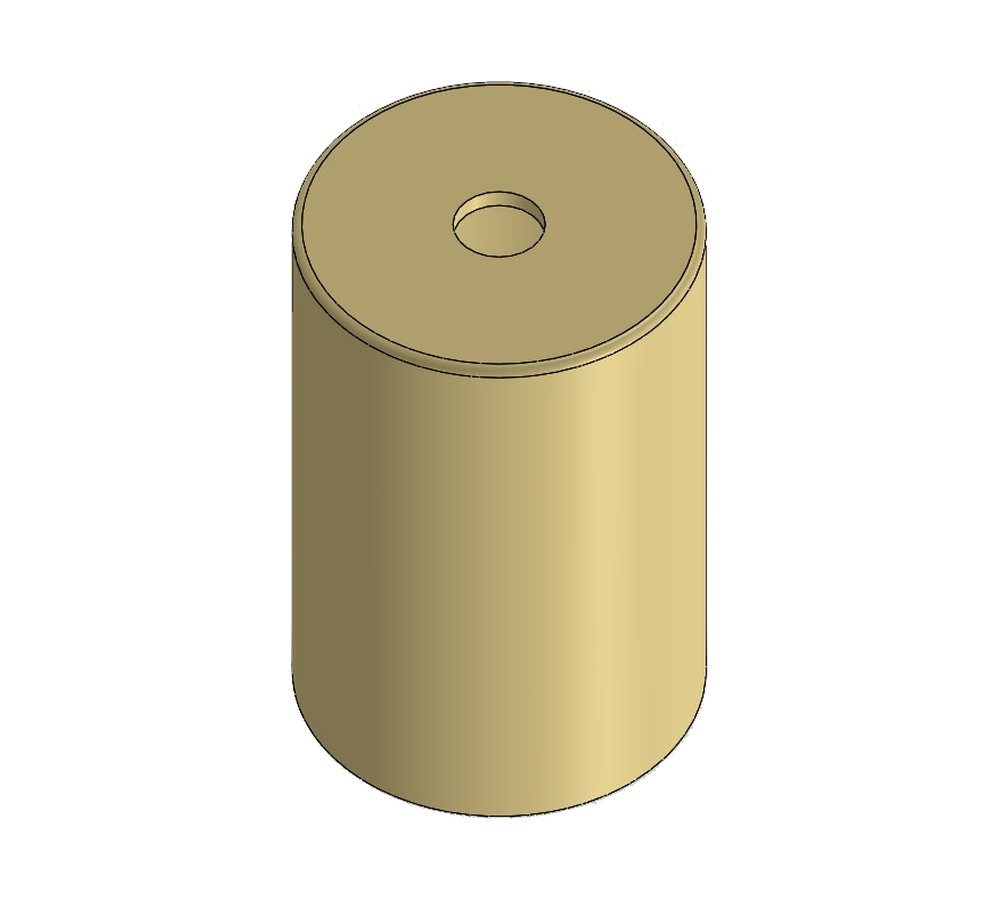
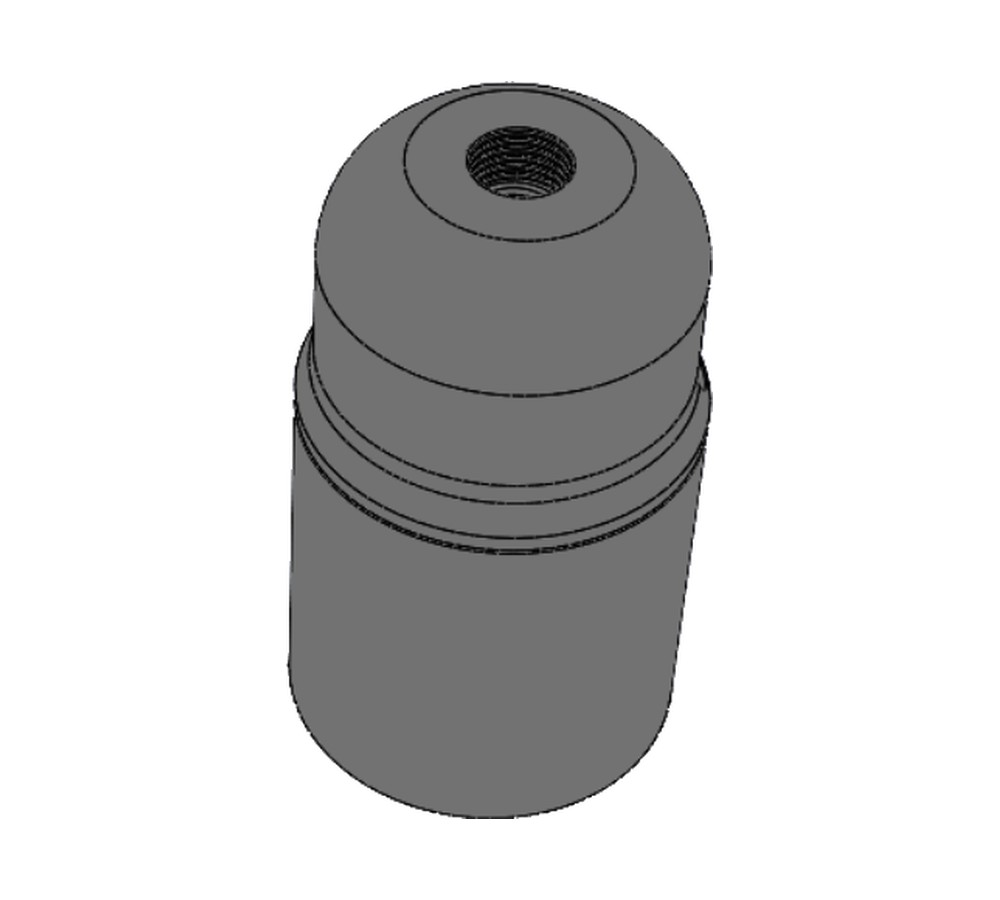
fix: fase 1 and images

diff --git a/cm3d/fase-1.html b/cm3d/fase-1.html
@@ -55,9 +55,11 @@
 
       <section id="objeto">
         <h2>Porquê este objeto?</h2>
-        <p class="lead">PORQUE RAZAO? :::</p>
         <div class="grid g2">
-          <div class="ph" role="img" aria-label="Espaço reservado: objeto original">Objeto original</div>
+          <figure class="shot">
+            <img src="Imagens/fase-1/objeto-original.jpg.jpeg" alt="Objeto original: candeeiro real" loading="lazy">
+            <figcaption>Objeto original</figcaption>
+          </figure>
           <figure class="shot">
             <img src="Imagens/fase-1/candeeiro-isometrico.jpg.jpeg" alt="Objeto modelado" loading="lazy">
             <figcaption>Objeto modelado</figcaption>

diff --git a/cm3d/projetos.html b/cm3d/projetos.html
@@ -62,17 +62,6 @@
         </a>
       </div>
 
-      <section>
-        <h2>Software utilizado</h2>
-        <p>
-          <span class="pill">SolidWorks</span>
-          <span class="pill">Fusion</span>
-          <span class="pill">KeyShot</span>
-          <span class="pill">Blender</span>
-          <span class="pill">[Outro]</span>
-        </p>
-      </section>
-
     </div>
   </main>
 
